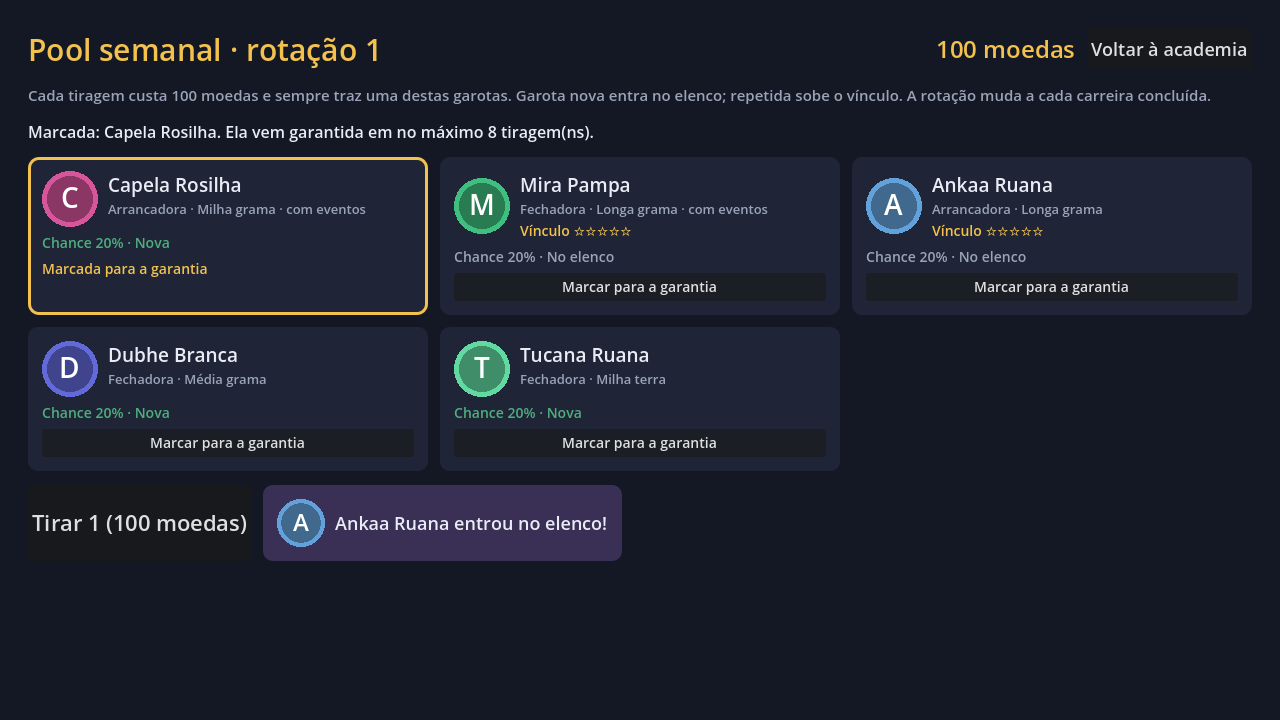
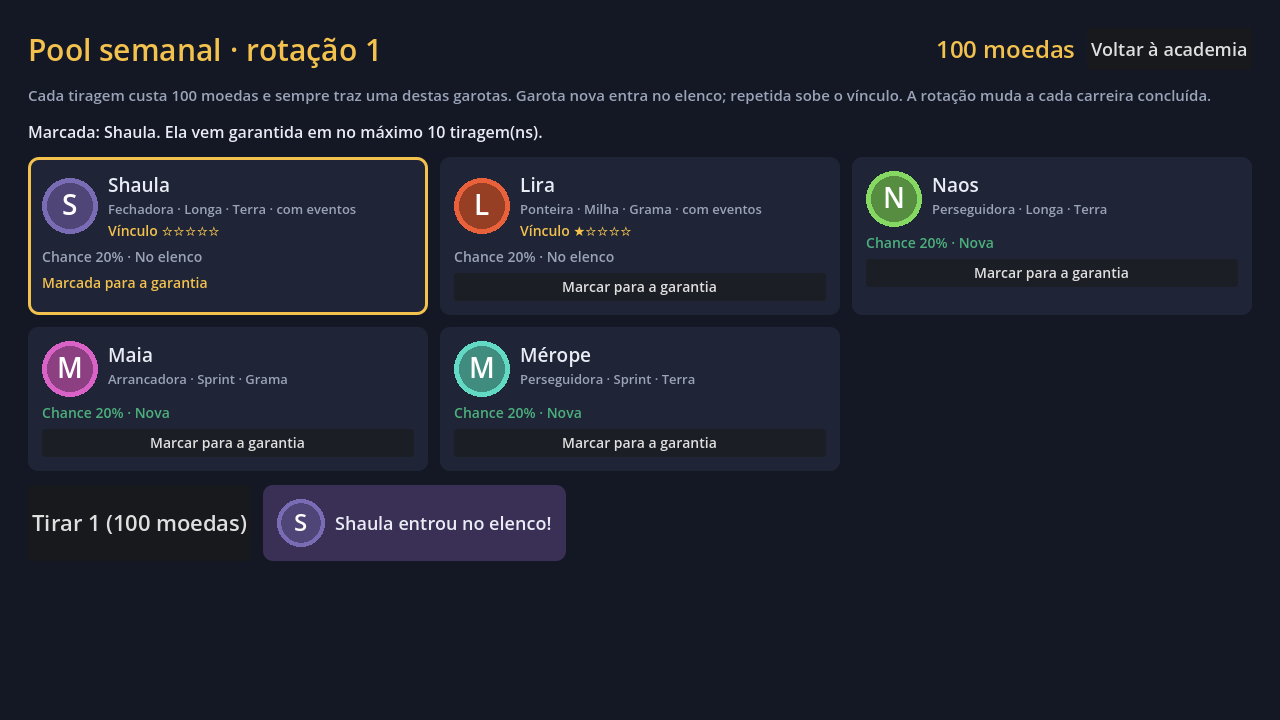
Garotas sem sobrenome (Lira Alazã → Lira)
- Nomes só com a estrela ou constelação em data/, docs/, testes e visualizador
- gerar_elenco.py mantém a semente antiga dos perfis, então os atributos não mudam
- Saves antigos (perfil e carreira) são convertidos ao carregar
- GDD e elenco.md (v0.3) atualizados; capturas do README refeitas

diff --git a/visualizador/garotas.js b/visualizador/garotas.js
@@ -1,2 +1,2 @@
 // Gerado por atualizar_dados.py; não edite à mão.
-window.GAROTAS = [{"nome": "Lira Alazã", "estilo": "pon", "atributos": {"vel": 110, "est": 95, "pod": 90, "det": 80, "int": 70}, "aptidao": {"sprint": "B", "milha": "X", "media": "B", "longa": "R", "grama": "X", "terra": "O"}, "casa": [1, 0], "mvp": true}, {"nome": "Nashira Tordilha", "estilo": "per", "atributos": {"vel": 105, "est": 95, "pod": 85, "det": 85, "int": 100}, "aptidao": {"sprint": "O", "milha": "B", "media": "X", "longa": "B", "grama": "X", "terra": "O"}, "casa": [2, 0], "mvp": true}, {"nome": "Mira Pampa", "estilo": "fec", "atributos": {"vel": 85, "est": 110, "pod": 100, "det": 100, "int": 65}, "aptidao": {"sprint": "R", "milha": "O", "media": "B", "longa": "X", "grama": "X", "terra": "O"}, "casa": [3, 0], "mvp": true}, {"nome": "Capela Rosilha", "estilo": "arr", "atributos": {"vel": 101, "est": 84, "pod": 96, "det": 90, "int": 79}, "aptidao": {"sprint": "B", "milha": "X", "media": "O", "longa": "R", "grama": "X", "terra": "R"}, "casa": [1, 0], "mvp": true}, {"nome": "Antares Zaina", "estilo": "pon", "atributos": {"vel": 107, "est": 78, "pod": 106, "det": 86, "int": 73}, "aptidao": {"sprint": "X", "milha": "B", "media": "R", "longa": "R", "grama": "B", "terra": "X"}, "casa": [0, 1], "mvp": true}, {"nome": "Shaula Lobuna", "estilo": "fec", "atributos": {"vel": 90, "est": 105, "pod": 95, "det": 110, "int": 75}, "aptidao": {"sprint": "R", "milha": "O", "media": "B", "longa": "X", "grama": "B", "terra": "X"}, "casa": [3, 1], "mvp": true}, {"nome": "Altair Castanha", "estilo": "pon", "atributos": {"vel": 110, "est": 73, "pod": 104, "det": 90, "int": 83}, "aptidao": {"sprint": "X", "milha": "B", "media": "O", "longa": "R", "grama": "X", "terra": "O"}, "casa": [0, 0], "mvp": false}, {"nome": "Spica Gateada", "estilo": "per", "atributos": {"vel": 108, "est": 77, "pod": 104, "det": 94, "int": 77}, "aptidao": {"sprint": "X", "milha": "B", "media": "O", "longa": "R", "grama": "X", "terra": "O"}, "casa": [0, 0], "mvp": false}, {"nome": "Adara Ruana", "estilo": "arr", "atributos": {"vel": 108, "est": 73, "pod": 105, "det": 88, "int": 85}, "aptidao": {"sprint": "X", "milha": "B", "media": "O", "longa": "R", "grama": "X", "terra": "O"}, "casa": [0, 0], "mvp": false}, {"nome": "Alcione Oveira", "estilo": "fec", "atributos": {"vel": 111, "est": 77, "pod": 104, "det": 90, "int": 78}, "aptidao": {"sprint": "X", "milha": "B", "media": "O", "longa": "R", "grama": "X", "terra": "O"}, "casa": [0, 0], "mvp": false}, {"nome": "Electra Melada", "estilo": "pon", "atributos": {"vel": 115, "est": 71, "pod": 111, "det": 86, "int": 78}, "aptidao": {"sprint": "X", "milha": "B", "media": "O", "longa": "R", "grama": "X", "terra": "O"}, "casa": [0, 0], "mvp": false}, {"nome": "Maia Tobiana", "estilo": "arr", "atributos": {"vel": 108, "est": 71, "pod": 106, "det": 93, "int": 82}, "aptidao": {"sprint": "X", "milha": "B", "media": "O", "longa": "R", "grama": "X", "terra": "O"}, "casa": [0, 0], "mvp": false}, {"nome": "Mérope Douradilha", "estilo": "per", "atributos": {"vel": 107, "est": 71, "pod": 103, "det": 100, "int": 79}, "aptidao": {"sprint": "X", "milha": "B", "media": "O", "longa": "R", "terra": "X", "grama": "O"}, "casa": [0, 1], "mvp": false}, {"nome": "Celeno Picaça", "estilo": "arr", "atributos": {"vel": 108, "est": 75, "pod": 104, "det": 92, "int": 81}, "aptidao": {"sprint": "X", "milha": "B", "media": "O", "longa": "R", "terra": "X", "grama": "O"}, "casa": [0, 1], "mvp": false}, {"nome": "Bellatrix Preta", "estilo": "fec", "atributos": {"vel": 113, "est": 69, "pod": 105, "det": 91, "int": 81}, "aptidao": {"sprint": "X", "milha": "B", "media": "O", "longa": "R", "terra": "X", "grama": "O"}, "casa": [0, 1], "mvp": false}, {"nome": "Mintaka Branca", "estilo": "pon", "atributos": {"vel": 110, "est": 73, "pod": 109, "det": 87, "int": 81}, "aptidao": {"sprint": "X", "milha": "B", "media": "O", "longa": "R", "terra": "X", "grama": "O"}, "casa": [0, 1], "mvp": false}, {"nome": "Andrômeda Tostada", "estilo": "arr", "atributos": {"vel": 103, "est": 76, "pod": 105, "det": 91, "int": 84}, "aptidao": {"sprint": "X", "milha": "B", "media": "O", "longa": "R", "terra": "X", "grama": "O"}, "casa": [0, 1], "mvp": false}, {"nome": "Cassiopeia Sebruna", "estilo": "per", "atributos": {"vel": 105, "est": 84, "pod": 92, "det": 97, "int": 82}, "aptidao": {"sprint": "B", "milha": "X", "media": "B", "longa": "O", "grama": "X", "terra": "O"}, "casa": [1, 0], "mvp": false}, {"nome": "Carina Colorada", "estilo": "fec", "atributos": {"vel": 107, "est": 82, "pod": 98, "det": 91, "int": 82}, "aptidao": {"sprint": "B", "milha": "X", "media": "B", "longa": "O", "grama": "X", "terra": "O"}, "casa": [1, 0], "mvp": false}, {"nome": "Vela Malacara", "estilo": "per", "atributos": {"vel": 106, "est": 82, "pod": 97, "det": 93, "int": 82}, "aptidao": {"sprint": "B", "milha": "X", "media": "B", "longa": "O", "grama": "X", "terra": "O"}, "casa": [1, 0], "mvp": false}, {"nome": "Auriga Pangaré", "estilo": "arr", "atributos": {"vel": 101, "est": 82, "pod": 96, "det": 92, "int": 89}, "aptidao": {"sprint": "B", "milha": "X", "media": "B", "longa": "O", "grama": "X", "terra": "O"}, "casa": [1, 0], "mvp": false}, {"nome": "Columba Bragada", "estilo": "pon", "atributos": {"vel": 104, "est": 85, "pod": 94, "det": 90, "int": 87}, "aptidao": {"sprint": "B", "milha": "X", "media": "B", "longa": "O", "terra": "X", "grama": "O"}, "casa": [1, 1], "mvp": false}, {"nome": "Fênix Castanha", "estilo": "per", "atributos": {"vel": 100, "est": 85, "pod": 96, "det": 92, "int": 86}, "aptidao": {"sprint": "B", "milha": "X", "media": "B", "longa": "O", "terra": "X", "grama": "O"}, "casa": [1, 1], "mvp": false}, {"nome": "Hidra Gateada", "estilo": "arr", "atributos": {"vel": 104, "est": 83, "pod": 97, "det": 91, "int": 85}, "aptidao": {"sprint": "B", "milha": "X", "media": "B", "longa": "O", "terra": "X", "grama": "O"}, "casa": [1, 1], "mvp": false}, {"nome": "Tucana Ruana", "estilo": "fec", "atributos": {"vel": 104, "est": 86, "pod": 100, "det": 90, "int": 80}, "aptidao": {"sprint": "B", "milha": "X", "media": "B", "longa": "O", "terra": "X", "grama": "O"}, "casa": [1, 1], "mvp": false}, {"nome": "Corona Oveira", "estilo": "per", "atributos": {"vel": 108, "est": 80, "pod": 94, "det": 95, "int": 82}, "aptidao": {"sprint": "B", "milha": "X", "media": "B", "longa": "O", "terra": "X", "grama": "O"}, "casa": [1, 1], "mvp": false}, {"nome": "Zaniah Melada", "estilo": "arr", "atributos": {"vel": 99, "est": 85, "pod": 95, "det": 95, "int": 86}, "aptidao": {"sprint": "B", "milha": "X", "media": "B", "longa": "O", "terra": "X", "grama": "O"}, "casa": [1, 1], "mvp": false}, {"nome": "Alya Tobiana", "estilo": "pon", "atributos": {"vel": 95, "est": 93, "pod": 85, "det": 96, "int": 91}, "aptidao": {"sprint": "O", "milha": "B", "media": "X", "longa": "B", "grama": "X", "terra": "O"}, "casa": [2, 0], "mvp": false}, {"nome": "Alhena Douradilha", "estilo": "arr", "atributos": {"vel": 87, "est": 97, "pod": 90, "det": 96, "int": 90}, "aptidao": {"sprint": "O", "milha": "B", "media": "X", "longa": "B", "grama": "X", "terra": "O"}, "casa": [2, 0], "mvp": false}, {"nome": "Mizar Picaça", "estilo": "fec", "atributos": {"vel": 97, "est": 95, "pod": 87, "det": 100, "int": 81}, "aptidao": {"sprint": "O", "milha": "B", "media": "X", "longa": "B", "grama": "X", "terra": "O"}, "casa": [2, 0], "mvp": false}, {"nome": "Alcor Preta", "estilo": "per", "atributos": {"vel": 95, "est": 94, "pod": 84, "det": 102, "int": 84}, "aptidao": {"sprint": "O", "milha": "B", "media": "X", "longa": "B", "grama": "X", "terra": "O"}, "casa": [2, 0], "mvp": false}, {"nome": "Dubhe Branca", "estilo": "fec", "atributos": {"vel": 99, "est": 93, "pod": 84, "det": 99, "int": 85}, "aptidao": {"sprint": "O", "milha": "B", "media": "X", "longa": "B", "grama": "X", "terra": "O"}, "casa": [2, 0], "mvp": false}, {"nome": "Deneb Tostada", "estilo": "pon", "atributos": {"vel": 98, "est": 94, "pod": 84, "det": 94, "int": 90}, "aptidao": {"sprint": "O", "milha": "B", "media": "X", "longa": "B", "terra": "X", "grama": "O"}, "casa": [2, 1], "mvp": false}, {"nome": "Albireo Sebruna", "estilo": "per", "atributos": {"vel": 92, "est": 97, "pod": 91, "det": 99, "int": 82}, "aptidao": {"sprint": "O", "milha": "B", "media": "X", "longa": "B", "terra": "X", "grama": "O"}, "casa": [2, 1], "mvp": false}, {"nome": "Achernar Colorada", "estilo": "arr", "atributos": {"vel": 92, "est": 97, "pod": 87, "det": 96, "int": 88}, "aptidao": {"sprint": "O", "milha": "B", "media": "X", "longa": "B", "terra": "X", "grama": "O"}, "casa": [2, 1], "mvp": false}, {"nome": "Mimosa Malacara", "estilo": "fec", "atributos": {"vel": 97, "est": 93, "pod": 86, "det": 98, "int": 86}, "aptidao": {"sprint": "O", "milha": "B", "media": "X", "longa": "B", "terra": "X", "grama": "O"}, "casa": [2, 1], "mvp": false}, {"nome": "Hamal Pangaré", "estilo": "per", "atributos": {"vel": 91, "est": 99, "pod": 88, "det": 102, "int": 80}, "aptidao": {"sprint": "O", "milha": "B", "media": "X", "longa": "B", "terra": "X", "grama": "O"}, "casa": [2, 1], "mvp": false}, {"nome": "Mirach Bragada", "estilo": "fec", "atributos": {"vel": 98, "est": 95, "pod": 89, "det": 97, "int": 82}, "aptidao": {"sprint": "O", "milha": "B", "media": "X", "longa": "B", "terra": "X", "grama": "O"}, "casa": [2, 1], "mvp": false}, {"nome": "Almach Castanha", "estilo": "pon", "atributos": {"vel": 86, "est": 108, "pod": 78, "det": 89, "int": 99}, "aptidao": {"sprint": "R", "milha": "O", "media": "B", "longa": "X", "grama": "X", "terra": "O"}, "casa": [3, 0], "mvp": false}, {"nome": "Nunki Gateada", "estilo": "per", "atributos": {"vel": 85, "est": 106, "pod": 79, "det": 96, "int": 94}, "aptidao": {"sprint": "R", "milha": "O", "media": "B", "longa": "X", "grama": "X", "terra": "O"}, "casa": [3, 0], "mvp": false}, {"nome": "Ankaa Ruana", "estilo": "arr", "atributos": {"vel": 80, "est": 108, "pod": 77, "det": 94, "int": 100}, "aptidao": {"sprint": "R", "milha": "O", "media": "B", "longa": "X", "grama": "X", "terra": "O"}, "casa": [3, 0], "mvp": false}, {"nome": "Zosma Oveira", "estilo": "fec", "atributos": {"vel": 87, "est": 112, "pod": 78, "det": 93, "int": 90}, "aptidao": {"sprint": "R", "milha": "O", "media": "B", "longa": "X", "grama": "X", "terra": "O"}, "casa": [3, 0], "mvp": false}, {"nome": "Elnath Melada", "estilo": "pon", "atributos": {"vel": 87, "est": 112, "pod": 80, "det": 89, "int": 92}, "aptidao": {"sprint": "R", "milha": "O", "media": "B", "longa": "X", "grama": "X", "terra": "O"}, "casa": [3, 0], "mvp": false}, {"nome": "Saiph Tobiana", "estilo": "pon", "atributos": {"vel": 89, "est": 113, "pod": 80, "det": 84, "int": 94}, "aptidao": {"sprint": "R", "milha": "O", "media": "B", "longa": "X", "terra": "X", "grama": "O"}, "casa": [3, 1], "mvp": false}, {"nome": "Naos Douradilha", "estilo": "per", "atributos": {"vel": 85, "est": 109, "pod": 78, "det": 93, "int": 96}, "aptidao": {"sprint": "R", "milha": "O", "media": "B", "longa": "X", "terra": "X", "grama": "O"}, "casa": [3, 1], "mvp": false}, {"nome": "Avior Picaça", "estilo": "arr", "atributos": {"vel": 82, "est": 109, "pod": 78, "det": 95, "int": 96}, "aptidao": {"sprint": "R", "milha": "O", "media": "B", "longa": "X", "terra": "X", "grama": "O"}, "casa": [3, 1], "mvp": false}, {"nome": "Atria Preta", "estilo": "fec", "atributos": {"vel": 91, "est": 110, "pod": 76, "det": 92, "int": 91}, "aptidao": {"sprint": "R", "milha": "O", "media": "B", "longa": "X", "terra": "X", "grama": "O"}, "casa": [3, 1], "mvp": false}, {"nome": "Alnair Branca", "estilo": "pon", "atributos": {"vel": 85, "est": 106, "pod": 81, "det": 89, "int": 99}, "aptidao": {"sprint": "R", "milha": "O", "media": "B", "longa": "X", "terra": "X", "grama": "O"}, "casa": [3, 1], "mvp": false}];
+window.GAROTAS = [{"nome": "Lira", "estilo": "pon", "atributos": {"vel": 110, "est": 95, "pod": 90, "det": 80, "int": 70}, "aptidao": {"sprint": "B", "milha": "X", "media": "B", "longa": "R", "grama": "X", "terra": "O"}, "casa": [1, 0], "mvp": true}, {"nome": "Nashira", "estilo": "per", "atributos": {"vel": 105, "est": 95, "pod": 85, "det": 85, "int": 100}, "aptidao": {"sprint": "O", "milha": "B", "media": "X", "longa": "B", "grama": "X", "terra": "O"}, "casa": [2, 0], "mvp": true}, {"nome": "Mira", "estilo": "fec", "atributos": {"vel": 85, "est": 110, "pod": 100, "det": 100, "int": 65}, "aptidao": {"sprint": "R", "milha": "O", "media": "B", "longa": "X", "grama": "X", "terra": "O"}, "casa": [3, 0], "mvp": true}, {"nome": "Capela", "estilo": "arr", "atributos": {"vel": 101, "est": 84, "pod": 96, "det": 90, "int": 79}, "aptidao": {"sprint": "B", "milha": "X", "media": "O", "longa": "R", "grama": "X", "terra": "R"}, "casa": [1, 0], "mvp": true}, {"nome": "Antares", "estilo": "pon", "atributos": {"vel": 107, "est": 78, "pod": 106, "det": 86, "int": 73}, "aptidao": {"sprint": "X", "milha": "B", "media": "R", "longa": "R", "grama": "B", "terra": "X"}, "casa": [0, 1], "mvp": true}, {"nome": "Shaula", "estilo": "fec", "atributos": {"vel": 90, "est": 105, "pod": 95, "det": 110, "int": 75}, "aptidao": {"sprint": "R", "milha": "O", "media": "B", "longa": "X", "grama": "B", "terra": "X"}, "casa": [3, 1], "mvp": true}, {"nome": "Altair", "estilo": "pon", "atributos": {"vel": 110, "est": 73, "pod": 104, "det": 90, "int": 83}, "aptidao": {"sprint": "X", "milha": "B", "media": "O", "longa": "R", "grama": "X", "terra": "O"}, "casa": [0, 0], "mvp": false}, {"nome": "Spica", "estilo": "per", "atributos": {"vel": 108, "est": 77, "pod": 104, "det": 94, "int": 77}, "aptidao": {"sprint": "X", "milha": "B", "media": "O", "longa": "R", "grama": "X", "terra": "O"}, "casa": [0, 0], "mvp": false}, {"nome": "Adara", "estilo": "arr", "atributos": {"vel": 108, "est": 73, "pod": 105, "det": 88, "int": 85}, "aptidao": {"sprint": "X", "milha": "B", "media": "O", "longa": "R", "grama": "X", "terra": "O"}, "casa": [0, 0], "mvp": false}, {"nome": "Alcione", "estilo": "fec", "atributos": {"vel": 111, "est": 77, "pod": 104, "det": 90, "int": 78}, "aptidao": {"sprint": "X", "milha": "B", "media": "O", "longa": "R", "grama": "X", "terra": "O"}, "casa": [0, 0], "mvp": false}, {"nome": "Electra", "estilo": "pon", "atributos": {"vel": 115, "est": 71, "pod": 111, "det": 86, "int": 78}, "aptidao": {"sprint": "X", "milha": "B", "media": "O", "longa": "R", "grama": "X", "terra": "O"}, "casa": [0, 0], "mvp": false}, {"nome": "Maia", "estilo": "arr", "atributos": {"vel": 108, "est": 71, "pod": 106, "det": 93, "int": 82}, "aptidao": {"sprint": "X", "milha": "B", "media": "O", "longa": "R", "grama": "X", "terra": "O"}, "casa": [0, 0], "mvp": false}, {"nome": "Mérope", "estilo": "per", "atributos": {"vel": 107, "est": 71, "pod": 103, "det": 100, "int": 79}, "aptidao": {"sprint": "X", "milha": "B", "media": "O", "longa": "R", "terra": "X", "grama": "O"}, "casa": [0, 1], "mvp": false}, {"nome": "Celeno", "estilo": "arr", "atributos": {"vel": 108, "est": 75, "pod": 104, "det": 92, "int": 81}, "aptidao": {"sprint": "X", "milha": "B", "media": "O", "longa": "R", "terra": "X", "grama": "O"}, "casa": [0, 1], "mvp": false}, {"nome": "Bellatrix", "estilo": "fec", "atributos": {"vel": 113, "est": 69, "pod": 105, "det": 91, "int": 81}, "aptidao": {"sprint": "X", "milha": "B", "media": "O", "longa": "R", "terra": "X", "grama": "O"}, "casa": [0, 1], "mvp": false}, {"nome": "Mintaka", "estilo": "pon", "atributos": {"vel": 110, "est": 73, "pod": 109, "det": 87, "int": 81}, "aptidao": {"sprint": "X", "milha": "B", "media": "O", "longa": "R", "terra": "X", "grama": "O"}, "casa": [0, 1], "mvp": false}, {"nome": "Andrômeda", "estilo": "arr", "atributos": {"vel": 103, "est": 76, "pod": 105, "det": 91, "int": 84}, "aptidao": {"sprint": "X", "milha": "B", "media": "O", "longa": "R", "terra": "X", "grama": "O"}, "casa": [0, 1], "mvp": false}, {"nome": "Cassiopeia", "estilo": "per", "atributos": {"vel": 105, "est": 84, "pod": 92, "det": 97, "int": 82}, "aptidao": {"sprint": "B", "milha": "X", "media": "B", "longa": "O", "grama": "X", "terra": "O"}, "casa": [1, 0], "mvp": false}, {"nome": "Carina", "estilo": "fec", "atributos": {"vel": 107, "est": 82, "pod": 98, "det": 91, "int": 82}, "aptidao": {"sprint": "B", "milha": "X", "media": "B", "longa": "O", "grama": "X", "terra": "O"}, "casa": [1, 0], "mvp": false}, {"nome": "Vela", "estilo": "per", "atributos": {"vel": 106, "est": 82, "pod": 97, "det": 93, "int": 82}, "aptidao": {"sprint": "B", "milha": "X", "media": "B", "longa": "O", "grama": "X", "terra": "O"}, "casa": [1, 0], "mvp": false}, {"nome": "Auriga", "estilo": "arr", "atributos": {"vel": 101, "est": 82, "pod": 96, "det": 92, "int": 89}, "aptidao": {"sprint": "B", "milha": "X", "media": "B", "longa": "O", "grama": "X", "terra": "O"}, "casa": [1, 0], "mvp": false}, {"nome": "Columba", "estilo": "pon", "atributos": {"vel": 104, "est": 85, "pod": 94, "det": 90, "int": 87}, "aptidao": {"sprint": "B", "milha": "X", "media": "B", "longa": "O", "terra": "X", "grama": "O"}, "casa": [1, 1], "mvp": false}, {"nome": "Fênix", "estilo": "per", "atributos": {"vel": 100, "est": 85, "pod": 96, "det": 92, "int": 86}, "aptidao": {"sprint": "B", "milha": "X", "media": "B", "longa": "O", "terra": "X", "grama": "O"}, "casa": [1, 1], "mvp": false}, {"nome": "Hidra", "estilo": "arr", "atributos": {"vel": 104, "est": 83, "pod": 97, "det": 91, "int": 85}, "aptidao": {"sprint": "B", "milha": "X", "media": "B", "longa": "O", "terra": "X", "grama": "O"}, "casa": [1, 1], "mvp": false}, {"nome": "Tucana", "estilo": "fec", "atributos": {"vel": 104, "est": 86, "pod": 100, "det": 90, "int": 80}, "aptidao": {"sprint": "B", "milha": "X", "media": "B", "longa": "O", "terra": "X", "grama": "O"}, "casa": [1, 1], "mvp": false}, {"nome": "Corona", "estilo": "per", "atributos": {"vel": 108, "est": 80, "pod": 94, "det": 95, "int": 82}, "aptidao": {"sprint": "B", "milha": "X", "media": "B", "longa": "O", "terra": "X", "grama": "O"}, "casa": [1, 1], "mvp": false}, {"nome": "Zaniah", "estilo": "arr", "atributos": {"vel": 99, "est": 85, "pod": 95, "det": 95, "int": 86}, "aptidao": {"sprint": "B", "milha": "X", "media": "B", "longa": "O", "terra": "X", "grama": "O"}, "casa": [1, 1], "mvp": false}, {"nome": "Alya", "estilo": "pon", "atributos": {"vel": 95, "est": 93, "pod": 85, "det": 96, "int": 91}, "aptidao": {"sprint": "O", "milha": "B", "media": "X", "longa": "B", "grama": "X", "terra": "O"}, "casa": [2, 0], "mvp": false}, {"nome": "Alhena", "estilo": "arr", "atributos": {"vel": 87, "est": 97, "pod": 90, "det": 96, "int": 90}, "aptidao": {"sprint": "O", "milha": "B", "media": "X", "longa": "B", "grama": "X", "terra": "O"}, "casa": [2, 0], "mvp": false}, {"nome": "Mizar", "estilo": "fec", "atributos": {"vel": 97, "est": 95, "pod": 87, "det": 100, "int": 81}, "aptidao": {"sprint": "O", "milha": "B", "media": "X", "longa": "B", "grama": "X", "terra": "O"}, "casa": [2, 0], "mvp": false}, {"nome": "Alcor", "estilo": "per", "atributos": {"vel": 95, "est": 94, "pod": 84, "det": 102, "int": 84}, "aptidao": {"sprint": "O", "milha": "B", "media": "X", "longa": "B", "grama": "X", "terra": "O"}, "casa": [2, 0], "mvp": false}, {"nome": "Dubhe", "estilo": "fec", "atributos": {"vel": 99, "est": 93, "pod": 84, "det": 99, "int": 85}, "aptidao": {"sprint": "O", "milha": "B", "media": "X", "longa": "B", "grama": "X", "terra": "O"}, "casa": [2, 0], "mvp": false}, {"nome": "Deneb", "estilo": "pon", "atributos": {"vel": 98, "est": 94, "pod": 84, "det": 94, "int": 90}, "aptidao": {"sprint": "O", "milha": "B", "media": "X", "longa": "B", "terra": "X", "grama": "O"}, "casa": [2, 1], "mvp": false}, {"nome": "Albireo", "estilo": "per", "atributos": {"vel": 92, "est": 97, "pod": 91, "det": 99, "int": 82}, "aptidao": {"sprint": "O", "milha": "B", "media": "X", "longa": "B", "terra": "X", "grama": "O"}, "casa": [2, 1], "mvp": false}, {"nome": "Achernar", "estilo": "arr", "atributos": {"vel": 92, "est": 97, "pod": 87, "det": 96, "int": 88}, "aptidao": {"sprint": "O", "milha": "B", "media": "X", "longa": "B", "terra": "X", "grama": "O"}, "casa": [2, 1], "mvp": false}, {"nome": "Mimosa", "estilo": "fec", "atributos": {"vel": 97, "est": 93, "pod": 86, "det": 98, "int": 86}, "aptidao": {"sprint": "O", "milha": "B", "media": "X", "longa": "B", "terra": "X", "grama": "O"}, "casa": [2, 1], "mvp": false}, {"nome": "Hamal", "estilo": "per", "atributos": {"vel": 91, "est": 99, "pod": 88, "det": 102, "int": 80}, "aptidao": {"sprint": "O", "milha": "B", "media": "X", "longa": "B", "terra": "X", "grama": "O"}, "casa": [2, 1], "mvp": false}, {"nome": "Mirach", "estilo": "fec", "atributos": {"vel": 98, "est": 95, "pod": 89, "det": 97, "int": 82}, "aptidao": {"sprint": "O", "milha": "B", "media": "X", "longa": "B", "terra": "X", "grama": "O"}, "casa": [2, 1], "mvp": false}, {"nome": "Almach", "estilo": "pon", "atributos": {"vel": 86, "est": 108, "pod": 78, "det": 89, "int": 99}, "aptidao": {"sprint": "R", "milha": "O", "media": "B", "longa": "X", "grama": "X", "terra": "O"}, "casa": [3, 0], "mvp": false}, {"nome": "Nunki", "estilo": "per", "atributos": {"vel": 85, "est": 106, "pod": 79, "det": 96, "int": 94}, "aptidao": {"sprint": "R", "milha": "O", "media": "B", "longa": "X", "grama": "X", "terra": "O"}, "casa": [3, 0], "mvp": false}, {"nome": "Ankaa", "estilo": "arr", "atributos": {"vel": 80, "est": 108, "pod": 77, "det": 94, "int": 100}, "aptidao": {"sprint": "R", "milha": "O", "media": "B", "longa": "X", "grama": "X", "terra": "O"}, "casa": [3, 0], "mvp": false}, {"nome": "Zosma", "estilo": "fec", "atributos": {"vel": 87, "est": 112, "pod": 78, "det": 93, "int": 90}, "aptidao": {"sprint": "R", "milha": "O", "media": "B", "longa": "X", "grama": "X", "terra": "O"}, "casa": [3, 0], "mvp": false}, {"nome": "Elnath", "estilo": "pon", "atributos": {"vel": 87, "est": 112, "pod": 80, "det": 89, "int": 92}, "aptidao": {"sprint": "R", "milha": "O", "media": "B", "longa": "X", "grama": "X", "terra": "O"}, "casa": [3, 0], "mvp": false}, {"nome": "Saiph", "estilo": "pon", "atributos": {"vel": 89, "est": 113, "pod": 80, "det": 84, "int": 94}, "aptidao": {"sprint": "R", "milha": "O", "media": "B", "longa": "X", "terra": "X", "grama": "O"}, "casa": [3, 1], "mvp": false}, {"nome": "Naos", "estilo": "per", "atributos": {"vel": 85, "est": 109, "pod": 78, "det": 93, "int": 96}, "aptidao": {"sprint": "R", "milha": "O", "media": "B", "longa": "X", "terra": "X", "grama": "O"}, "casa": [3, 1], "mvp": false}, {"nome": "Avior", "estilo": "arr", "atributos": {"vel": 82, "est": 109, "pod": 78, "det": 95, "int": 96}, "aptidao": {"sprint": "R", "milha": "O", "media": "B", "longa": "X", "terra": "X", "grama": "O"}, "casa": [3, 1], "mvp": false}, {"nome": "Atria", "estilo": "fec", "atributos": {"vel": 91, "est": 110, "pod": 76, "det": 92, "int": 91}, "aptidao": {"sprint": "R", "milha": "O", "media": "B", "longa": "X", "terra": "X", "grama": "O"}, "casa": [3, 1], "mvp": false}, {"nome": "Alnair", "estilo": "pon", "atributos": {"vel": 85, "est": 106, "pod": 81, "det": 89, "int": 99}, "aptidao": {"sprint": "R", "milha": "O", "media": "B", "longa": "X", "terra": "X", "grama": "O"}, "casa": [3, 1], "mvp": false}];

diff --git a/tools/gerar_elenco.py b/tools/gerar_elenco.py
@@ -10,19 +10,19 @@ TOTAL = 460  # soma dos atributos iniciais
 
 # MVP: nome, estilo, atributos, aptidões (Sprint Milha Média Longa | Grama Terra), combinação-casa
 MVP = [
-    ("Lira Alazã",       "pon", (110, 95, 90, 80, 70),  "BXBR", "XO", (1, 0)),
-    ("Nashira Tordilha", "per", (105, 95, 85, 85, 100), "OBXB", "XO", (2, 0)),
-    ("Mira Pampa",       "fec", (85, 110, 100, 100, 65), "ROBX", "XO", (3, 0)),
-    ("Capela Rosilha",   "arr", (101, 84, 96, 90, 79), "BXOR", "XR", (1, 0)),
-    ("Antares Zaina",    "pon", (107, 78, 106, 86, 73), "XBRR", "BX", (0, 1)),
-    ("Shaula Lobuna",    "fec", (90, 105, 95, 110, 75), "ROBX", "BX", (3, 1)),
+    ("Lira",       "pon", (110, 95, 90, 80, 70),  "BXBR", "XO", (1, 0)),
+    ("Nashira", "per", (105, 95, 85, 85, 100), "OBXB", "XO", (2, 0)),
+    ("Mira",       "fec", (85, 110, 100, 100, 65), "ROBX", "XO", (3, 0)),
+    ("Capela",   "arr", (101, 84, 96, 90, 79), "BXOR", "XR", (1, 0)),
+    ("Antares",    "pon", (107, 78, 106, 86, 73), "XBRR", "BX", (0, 1)),
+    ("Shaula",    "fec", (90, 105, 95, 110, 75), "ROBX", "BX", (3, 1)),
 ]
 NOMES = ["Altair", "Spica", "Adara", "Alcione", "Electra", "Maia", "Mérope", "Celeno", "Bellatrix",
          "Mintaka", "Andrômeda", "Cassiopeia", "Carina", "Vela", "Auriga", "Columba", "Fênix", "Hidra",
          "Tucana", "Corona", "Zaniah", "Alya", "Alhena", "Mizar", "Alcor", "Dubhe", "Deneb", "Albireo",
          "Achernar", "Mimosa", "Hamal", "Mirach", "Almach", "Nunki", "Ankaa", "Zosma", "Elnath", "Saiph",
          "Naos", "Avior", "Atria", "Alnair"]
-# sobrenomes das 6 do MVP e das rivais (Moura, Baia) ficam reservados
+# pelagens: os nomes não têm mais sobrenome, mas elas ainda servem de semente dos perfis
 PELAGENS = ["Castanha", "Gateada", "Ruana", "Oveira", "Melada", "Tobiana", "Douradilha", "Picaça",
             "Preta", "Branca", "Tostada", "Sebruna", "Colorada", "Malacara", "Pangaré", "Bragada"]
 
@@ -62,9 +62,11 @@ def gerar():
                 if tuple(g["casa"]) == (d, p):
                     vagas.remove(g["estilo"])
             for st in vagas:
-                nome = f"{next(nomes)} {PELAGENS[pel % len(PELAGENS)]}"
+                nome = next(nomes)
+                # a semente do perfil ainda usa o nome antigo com a pelagem, para os
+                # atributos continuarem os mesmos de antes da retirada dos sobrenomes
+                rnd = random.Random(f"{nome} {PELAGENS[pel % len(PELAGENS)]}")
                 pel += 1
-                rnd = random.Random(nome)
                 at = perfil(d, st, rnd)
                 for k, v in AJUSTES.get(nome.split()[0], {}).items():
                     at[KEYS.index(k)] += v

diff --git a/docs/calendario.md b/docs/calendario.md
@@ -65,8 +65,8 @@ No turno do Grande Prêmio acontecem **8 corridas ao mesmo tempo**, uma por casa
 
 | Casa | Rival do Grande Prêmio |
 |---|---|
-| Média Grama, Longa Grama | **Polaris Moura** |
-| Sprint Terra, Milha Terra | **Algol Baia** |
+| Média Grama, Longa Grama | **Polaris** |
+| Sprint Terra, Milha Terra | **Algol** |
 | Outras | Uma NPC "campeã da casa" gerada (sem encontros no MVP) |
 
 Distâncias do Grande Prêmio (inicial): Sprint 1200 m · Milha 1600 m · Média 2400 m · Longa 3200 m.
@@ -101,7 +101,7 @@ Os objetivos 1, 3 e 5 são sempre os mesmos (Estreia e os dois Grandes Prêmios)
 
 Regras:
 - O sorteio pesa 2 para cada candidato Normal e 1 para cada Difícil.
-- "Outro piso" não sai para garotas com o outro piso Ruim (ex.: Capela Rosilha), porque o multiplicador ×0,90 deixa o objetivo injusto.
+- "Outro piso" não sai para garotas com o outro piso Ruim (ex.: Capela), porque o multiplicador ×0,90 deixa o objetivo injusto.
 - Na Magnitude 3 ou mais (§10), só saem candidatos Difíceis.
 
 ## 4. Mapa de rotas

diff --git a/docs/GDD.md b/docs/GDD.md
@@ -18,7 +18,7 @@
 **Motor:** Godot 4, GDScript.
 **Idioma:** PT-BR, com os textos fora do código para tradução futura.
 
-**Identidade:** universo, academia/liga, personagens, arte, UI e música são **originais**. Nenhuma personagem usa nome de cavalo de corrida real nem é baseada em personagens de outros jogos. Os nomes juntam uma **estrela ou constelação** com uma **pelagem** (ex.: Lira Alazã, Shaula Lobuna).
+**Identidade:** universo, academia/liga, personagens, arte, UI e música são **originais**. Nenhuma personagem usa nome de cavalo de corrida real nem é baseada em personagens de outros jogos. Cada garota tem só o nome de uma **estrela ou constelação**, sem sobrenome (ex.: Lira, Shaula).
 
 ## 2. Loop principal
 

diff --git a/README.md b/README.md
@@ -41,7 +41,7 @@ Acompanhar, Lateral, Frente, Aérea e Tribuna. Troque com `C` ou com as teclas `
 **Encontros e afinidade:** em algumas semanas (mais ao Sair) aparece um encontro com 2 ou 3
 escolhas. Há 3 eventos únicos por inicial e 6 genéricos com as colegas da academia, todos em
 `data/encontros.json`. Os encontros mexem na afinidade, e colegas com afinidade 30+ podem
-aparecer num treino para um bônus de dupla (+25%). A rival Polaris Moura corre o Grande Prêmio.
+aparecer num treino para um bônus de dupla (+25%). A rival Polaris corre o Grande Prêmio.
 
 **Save:** a carreira é salva sozinha a cada turno (`user://carreira.json`). Na tela inicial
 aparece o botão para continuar.
